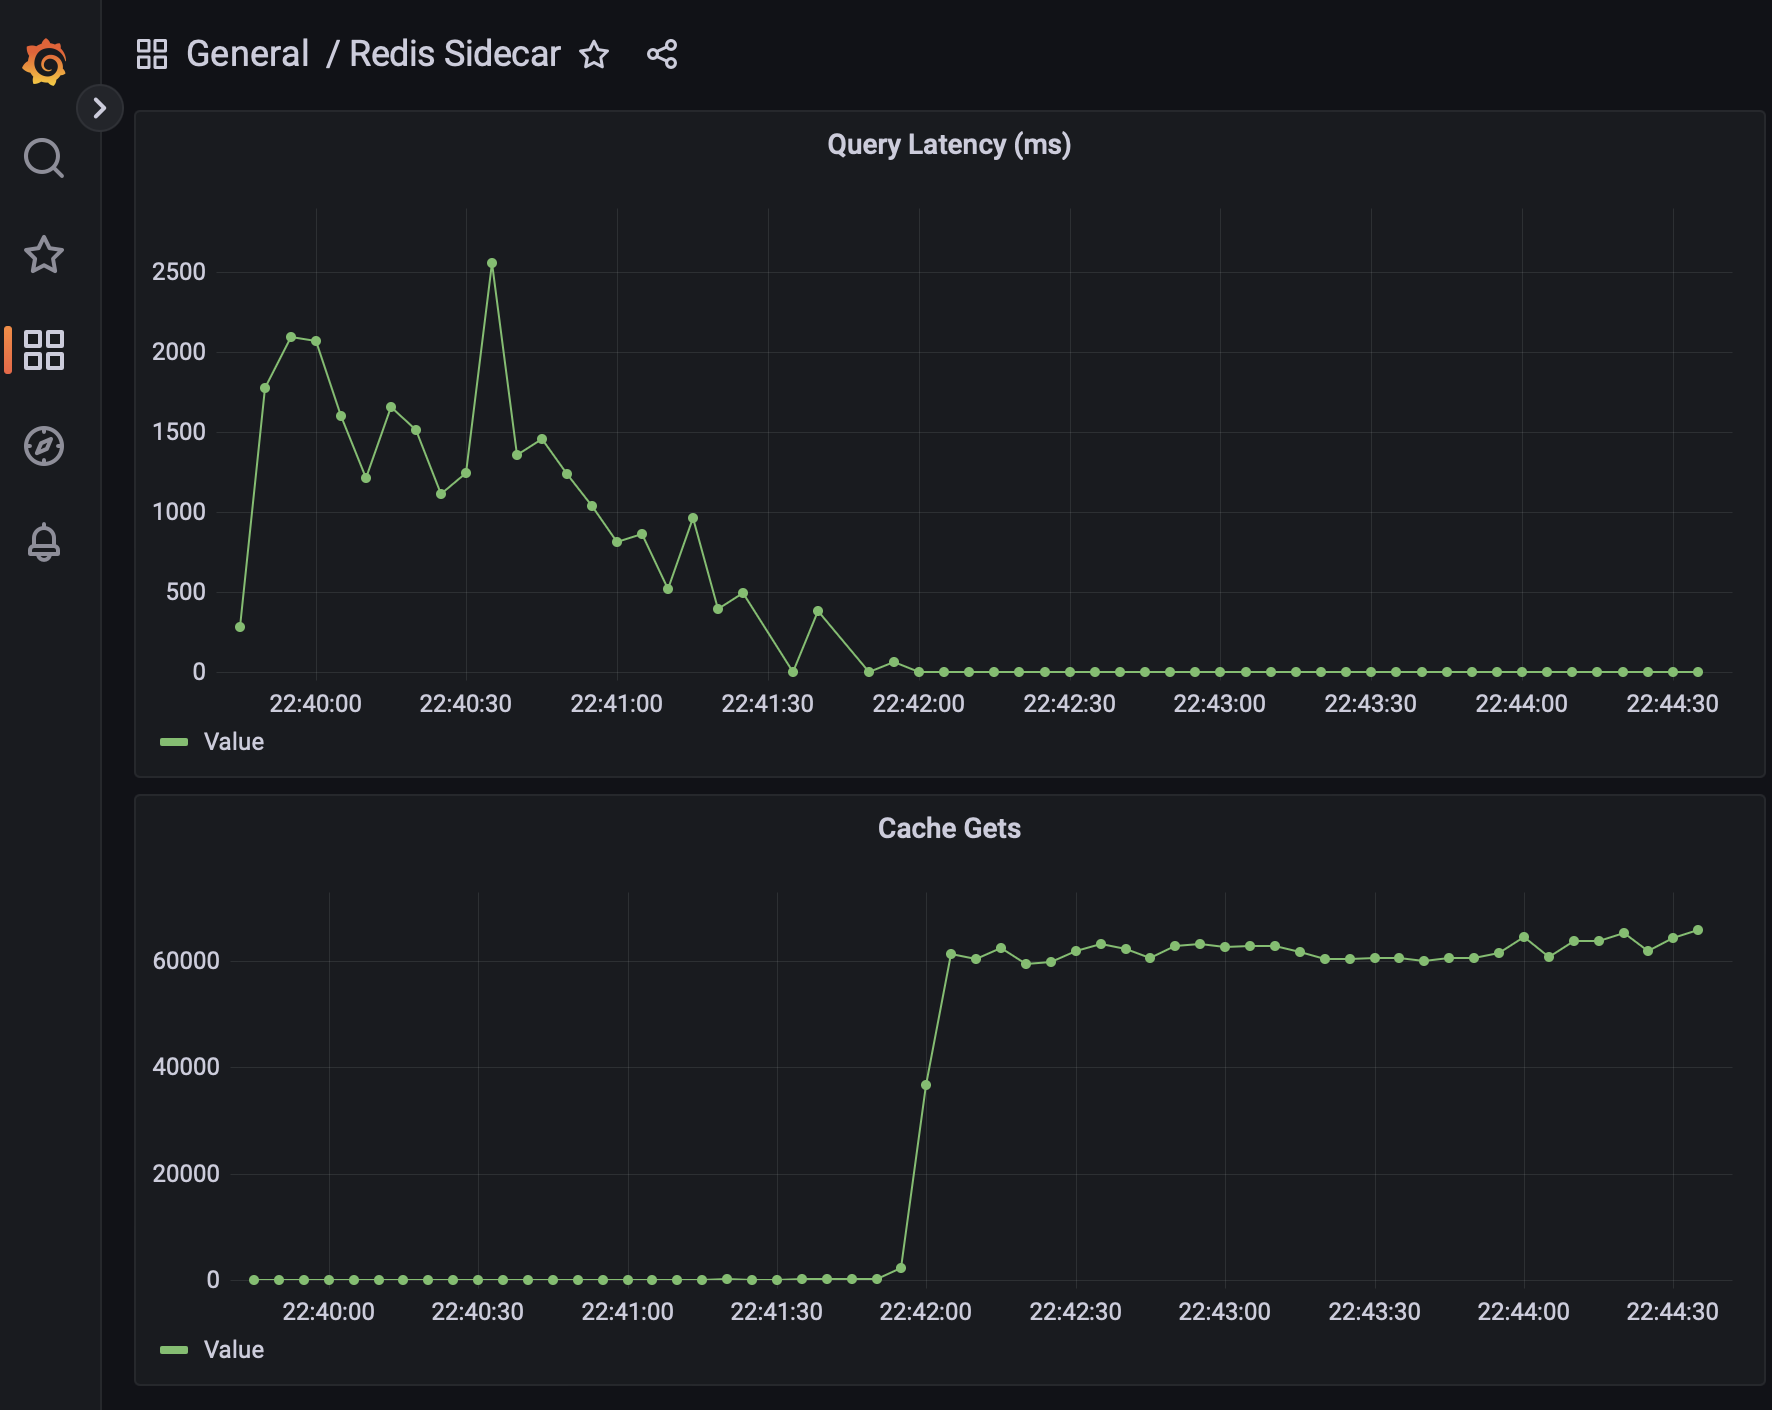
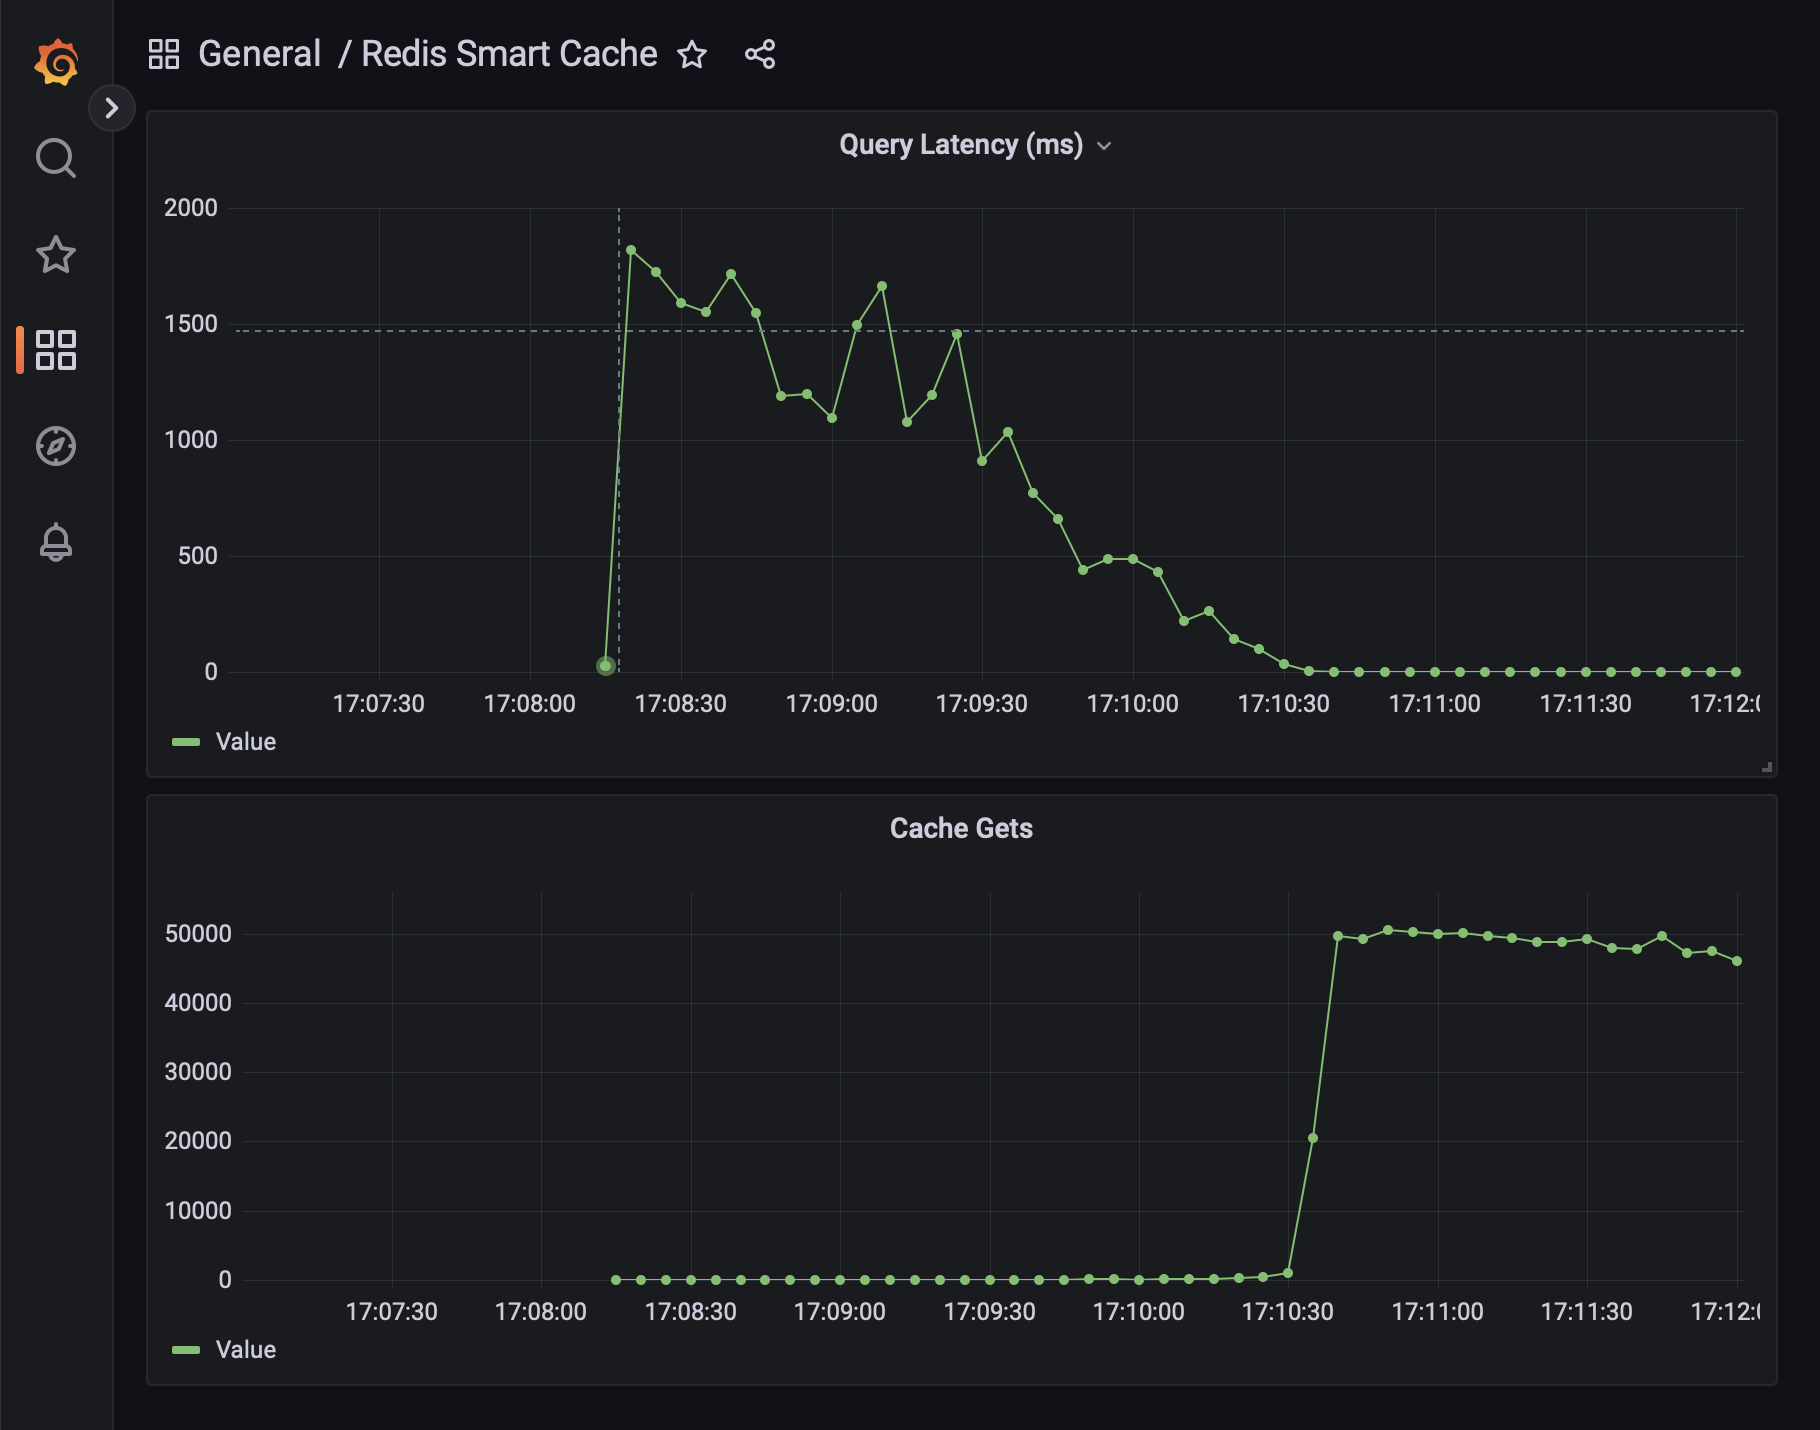
refactor(demo): Simplified configuration and docker container

diff --git a/demo/redis-smart-cache-demo/src/main/java/com/redis/smartcache/demo/DemoConfig.java b/demo/redis-smart-cache-demo/src/main/java/com/redis/smartcache/demo/DemoConfig.java
@@ -31,8 +31,8 @@ public class DemoConfig {
 	public static class DataConfig {
 
 		private boolean flush;
-		private int queryThreads;
-		private int batchSize;
+		private int threads;
+		private int batch;
 		private int customers;
 		private int products;
 		private int orders;
@@ -70,20 +70,20 @@ public class DemoConfig {
 			this.orderdetails = orderdetails;
 		}
 
-		public int getBatchSize() {
-			return batchSize;
+		public int getBatch() {
+			return batch;
 		}
 
-		public void setBatchSize(int batchSize) {
-			this.batchSize = batchSize;
+		public void setBatch(int size) {
+			this.batch = size;
 		}
 
-		public int getQueryThreads() {
-			return queryThreads;
+		public int getThreads() {
+			return threads;
 		}
 
-		public void setQueryThreads(int queryThreads) {
-			this.queryThreads = queryThreads;
+		public void setThreads(int threads) {
+			this.threads = threads;
 		}
 
 		public boolean isFlush() {

diff --git a/demo/redis-smart-cache-demo/src/main/java/com/redis/smartcache/demo/QueryExecutor.java b/demo/redis-smart-cache-demo/src/main/java/com/redis/smartcache/demo/QueryExecutor.java
@@ -65,8 +65,8 @@ public class QueryExecutor implements AutoCloseable {
 		hikariConfig.setPassword(dataSourceProperties.determinePassword());
 		try (HikariDataSource dataSource = new HikariDataSource(hikariConfig)) {
 			ThreadPoolTaskExecutor executor = new ThreadPoolTaskExecutor();
-			executor.setCorePoolSize(config.getDemo().getQueryThreads());
-			executor.setMaxPoolSize(config.getDemo().getQueryThreads());
+			executor.setCorePoolSize(config.getDemo().getThreads());
+			executor.setMaxPoolSize(config.getDemo().getThreads());
 			executor.setThreadNamePrefix("query-task");
 			executor.initialize();
 			ProgressBarBuilder progressBarBuilder = new ProgressBarBuilder();
@@ -74,7 +74,7 @@ public class QueryExecutor implements AutoCloseable {
 			progressBarBuilder.showSpeed();
 			progressBar = progressBarBuilder.build();
 			List<Future<Integer>> futures = new ArrayList<>();
-			for (int index = 0; index < config.getDemo().getQueryThreads(); index++) {
+			for (int index = 0; index < config.getDemo().getThreads(); index++) {
 				QueryTask task = new QueryTask(dataSource, config.getDemo().getOrders(), progressBar);
 				tasks.add(task);
 				futures.add(executor.submit(task));

diff --git a/demo/redis-smart-cache-demo/src/main/java/com/redis/smartcache/demo/DataLoader.java b/demo/redis-smart-cache-demo/src/main/java/com/redis/smartcache/demo/DataLoader.java
@@ -91,12 +91,12 @@ public class DataLoader {
 		for (int index = start; index < end; index++) {
 			rowProvider.set(preparedStatement, config.getDemo(), index);
 			preparedStatement.addBatch();
-			if (index > 0 && index % config.getDemo().getBatchSize() == 0) {
+			if (index > 0 && index % config.getDemo().getBatch() == 0) {
 				preparedStatement.executeBatch();
 				connection.commit();
 				preparedStatement.close();
 				preparedStatement = preparedStatement.getConnection().prepareStatement(insertSQL);
-				progressBar.stepBy(config.getDemo().getBatchSize());
+				progressBar.stepBy(config.getDemo().getBatch());
 			}
 		}
 		preparedStatement.executeBatch();